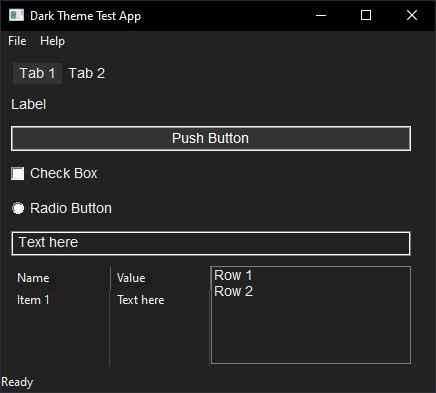
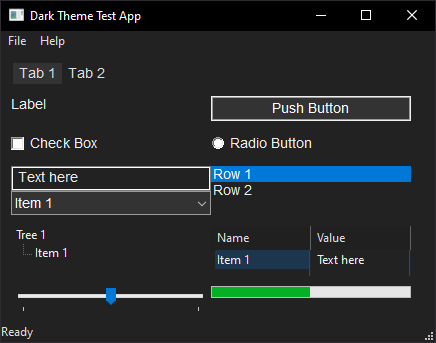
+ ComboBox, TreeView

diff --git a/dark-theme.c b/dark-theme.c
@@ -1,7 +1,4 @@
-/**
-Not implemented:
-* combo box
-
+/** Win32API GUI dark theme
 2026, Simon Zolin */
 
 #define UNICODE
@@ -156,7 +153,7 @@ static LRESULT WINAPI dkth_mmenu_proc(HWND hWnd, UINT uMsg, WPARAM wParam, LPARA
 			.dwFlags = DTT_TEXTCOLOR,
 			.crText = t->text_alt,
 		};
-		DrawThemeTextEx(t->thmenu, dmi->m.hdc, MENU_BARITEM, MBI_NORMAL, buf, mii.cch, flags, &dmi->dis.rcItem, &opts);
+		DrawThemeTextEx(t->menu_theme, dmi->m.hdc, MENU_BARITEM, MBI_NORMAL, buf, mii.cch, flags, &dmi->dis.rcItem, &opts);
 		return 1;
 	}
 
@@ -331,6 +328,18 @@ static LRESULT WINAPI dkth_stbar_proc(HWND hWnd, UINT uMsg, WPARAM wParam, LPARA
 			DrawTextW(hdc, buf, len, &r, DT_LEFT | DT_VCENTER | DT_SINGLELINE);
 		}
 
+		if ((GetWindowLongPtr(hWnd, GWL_STYLE) & SBARS_SIZEGRIP)
+			&& t->stbar_theme) {
+
+			RECT rcl;
+			GetClientRect(hWnd, &rcl);
+			SIZE gripper_size;
+			GetThemePartSize(t->stbar_theme, hdc, SP_GRIPPER, 0, &rcl, TS_DRAW, &gripper_size);
+			rcl.left = rcl.right - gripper_size.cx;
+			rcl.top = rcl.bottom - gripper_size.cy;
+			DrawThemeBackground(t->stbar_theme, hdc, SP_GRIPPER, 0, &rcl, NULL);
+		}
+
 		EndPaint(hWnd, &ps);
 		return 0;
 	}
@@ -381,8 +390,8 @@ int dark_theme_ctl(struct dark_theme *t, unsigned flags, HWND h)
 		return 0;
 
 	case DARK_THEME_WINDOW_MAIN_MENU:
-		if (!t->thmenu)
-			t->thmenu = OpenThemeData(h, L"Menu");
+		if (!t->menu_theme)
+			t->menu_theme = OpenThemeData(h, L"Menu");
 		if (!t->menu_light_br)
 			t->menu_light_br = CreateSolidBrush(t->menu_bg_light);
 		dkth_subclass(h, dkth_mmenu_proc, t);
@@ -394,8 +403,17 @@ int dark_theme_ctl(struct dark_theme *t, unsigned flags, HWND h)
 		return 0;
 
 	case DARK_THEME_CHECKBOX:
+	case DARK_THEME_RADIOBUTTON:
 		SetWindowTheme(h, L"", L"");
 		return 0;
+
+	case DARK_THEME_COMBOBOX:
+		if (t->_AllowDarkModeForWindow) {
+			((AllowDarkModeForWindow_t)t->_AllowDarkModeForWindow)(h, 1);
+			SetWindowTheme(h, L"CFD", NULL);
+			return 0;
+		}
+		break;
 
 	case DARK_THEME_TAB:
 		if (!t->tab_light_br)
@@ -410,7 +428,18 @@ int dark_theme_ctl(struct dark_theme *t, unsigned flags, HWND h)
 	case DARK_THEME_LISTVIEW:
 		return dkth_listview(t, h);
 
+	case DARK_THEME_TREEVIEW:
+		if (t->_AllowDarkModeForWindow) {
+			((AllowDarkModeForWindow_t)t->_AllowDarkModeForWindow)(h, 1);
+			TreeView_SetTextColor(h, t->listview_text);
+			TreeView_SetBkColor(h, t->listview_bg);
+			SetWindowTheme(h, L"DarkMode_Explorer", NULL);
+		}
+		return 0;
+
 	case DARK_THEME_STATUSBAR:
+		if (!t->stbar_theme)
+			t->stbar_theme = OpenThemeData(h, L"STATUS");
 		dkth_subclass(h, dkth_stbar_proc, t);
 		return 0;
 	}

diff --git a/dark-theme.h b/dark-theme.h
@@ -22,7 +22,8 @@ struct dark_theme {
 		, tab_light_br
 		, tab_sel_br
 		, tab_frame_br;
-	HANDLE thmenu;
+	HANDLE menu_theme
+		, stbar_theme;
 
 	void* _AllowDarkModeForWindow;
 	void* _SetPreferredAppMode;
@@ -54,8 +55,14 @@ enum DARK_THEME_FLAGS {
 	/** Apply "DarkMode_Explorer" theme for the push button */
 	DARK_THEME_BUTTON,
 
-	/** Set dark theme for a CheckBox/RadioButton controls */
+	/** Set dark theme for a CheckBox control */
 	DARK_THEME_CHECKBOX,
+
+	/** Set dark theme for a RadioButton control */
+	DARK_THEME_RADIOBUTTON,
+
+	/** Set dark theme for a ComboBox control */
+	DARK_THEME_COMBOBOX,
 
 	/** Apply "DarkMode_Explorer" theme for the edit control */
 	DARK_THEME_EDIT,
@@ -65,6 +72,9 @@ enum DARK_THEME_FLAGS {
 
 	/** Set dark theme for a ListView control */
 	DARK_THEME_LISTVIEW,
+
+	/** Set dark theme for a TreeView control */
+	DARK_THEME_TREEVIEW,
 
 	/** Set dark theme for a StatusBar control (subclass) */
 	DARK_THEME_STATUSBAR,

diff --git a/README.md b/README.md
@@ -12,33 +12,38 @@ Requires Windows 10 or later.
 #include "dark-theme.h"
 #include "dark-theme.c"
 
-struct dark_theme dt = {};
+struct dark_theme dts = {}, *dt = NULL;
 
-if (!dark_theme_init(&dt, 0)
-    && DARK_THEME_DARK == dark_theme_ctl(&dt, DARK_THEME_QUERY, 0)) {
+if (!dark_theme_init(&dts, 0)
+    && DARK_THEME_DARK == dark_theme_ctl(&dts, DARK_THEME_QUERY, 0)) {
 
     // Set custom colors (RGB)
-    dark_theme_colors(&dt, 0x222222, 0xeeeeee);
+    dark_theme_colors(&dts, 0x222222, 0xeeeeee);
 
     // Apply dark theme for the application
-    dark_theme_ctl(&dt, DARK_THEME_APP, 0);
+    dark_theme_ctl(&dts, DARK_THEME_APP, 0);
 
-    // Apply for the window
-    dark_theme_ctl(&dt, DARK_THEME_WINDOW_TITLE, hWindow);
-    dark_theme_ctl(&dt, DARK_THEME_WINDOW_MAIN_MENU, hWindow);
-    dark_theme_ctl(&dt, DARK_THEME_WINDOW, hWindow);
+    // Activate dark theme for the next `dark_theme_ctl()` calls
+    dt = &dts;
 }
-```
 
-Apply dark theme to individual controls:
+// ... create your window and controls ...
 
-```c
-dark_theme_ctl(&dt, DARK_THEME_BUTTON, hButton);
-dark_theme_ctl(&dt, DARK_THEME_CHECKBOX, hCheckbox);
-dark_theme_ctl(&dt, DARK_THEME_EDIT, hEdit);
-dark_theme_ctl(&dt, DARK_THEME_TAB, hTab);
-dark_theme_ctl(&dt, DARK_THEME_LISTVIEW, hListView);
-dark_theme_ctl(&dt, DARK_THEME_STATUSBAR, hStatusBar);
+// Apply for the window
+dark_theme_ctl(dt, DARK_THEME_WINDOW_TITLE, hWnd);
+dark_theme_ctl(dt, DARK_THEME_WINDOW_MAIN_MENU, hWnd);
+dark_theme_ctl(dt, DARK_THEME_WINDOW, hWnd);
+
+// Apply dark theme to individual controls
+dark_theme_ctl(dt, DARK_THEME_BUTTON, hButton);
+dark_theme_ctl(dt, DARK_THEME_CHECKBOX, hCheckbox);
+dark_theme_ctl(dt, DARK_THEME_RADIOBUTTON, hRadioButton);
+dark_theme_ctl(dt, DARK_THEME_EDIT, hEdit);
+dark_theme_ctl(dt, DARK_THEME_TAB, hTab);
+dark_theme_ctl(dt, DARK_THEME_COMBOBOX, hComboBox);
+dark_theme_ctl(dt, DARK_THEME_LISTVIEW, hListView);
+dark_theme_ctl(dt, DARK_THEME_TREEVIEW, hTreeView);
+dark_theme_ctl(dt, DARK_THEME_STATUSBAR, hStatusBar);
 ```
 
 ## Building the Example App
@@ -78,13 +83,16 @@ Apply theme settings to a window or control.
 | `DARK_THEME_QUERY` | Query the system's current color theme. Returns `DARK_THEME_LIGHT` or `DARK_THEME_DARK`. |
 | `DARK_THEME_APP` | Enable dark mode for the entire application process |
 | `DARK_THEME_WINDOW_TITLE` | Dark title bar via DWM |
-| `DARK_THEME_WINDOW` | Dark window background and child control colors |
+| `DARK_THEME_WINDOW` | Dark window background; automatically applies dark colors to all child static controls, listboxes, and edit controls |
 | `DARK_THEME_WINDOW_MAIN_MENU` | Main Menu with custom highlight colors |
 | `DARK_THEME_BUTTON` | Button |
 | `DARK_THEME_CHECKBOX` | Check Box |
-| `DARK_THEME_EDIT` | Edit control |
+| `DARK_THEME_RADIOBUTTON` | Radio Button |
+| `DARK_THEME_EDIT` | Edit control (scrollbars) |
 | `DARK_THEME_TAB` | Tab control with custom highlight colors |
+| `DARK_THEME_COMBOBOX` | ComboBox control |
 | `DARK_THEME_LISTVIEW` | ListView with custom header/text colors |
+| `DARK_THEME_TREEVIEW` | TreeView control |
 | `DARK_THEME_STATUSBAR` | Status Bar |
 
 ### dark_theme_colors
@@ -96,3 +104,13 @@ The function also sets the colors for tab or menu highlighting automatically.
 
 * **background**: Background color in RGB
 * **text**: Text color in RGB
+
+## Acknowledgments
+
+This library was largely inspired by the following projects:
+
+* [notepad-plus-plus/notepad-plus-plus](https://github.com/notepad-plus-plus/notepad-plus-plus) — Notepad++ dark theme implementation
+* [adzm/win32-custom-menubar-aero-theme](https://github.com/adzm/win32-custom-menubar-aero-theme) — Win32 custom menubar theming
+* [ysc3839/win32-darkmode](https://github.com/ysc3839/win32-darkmode) — Win32 dark mode utilities
+
+Many thanks to the authors and contributors of these projects!
